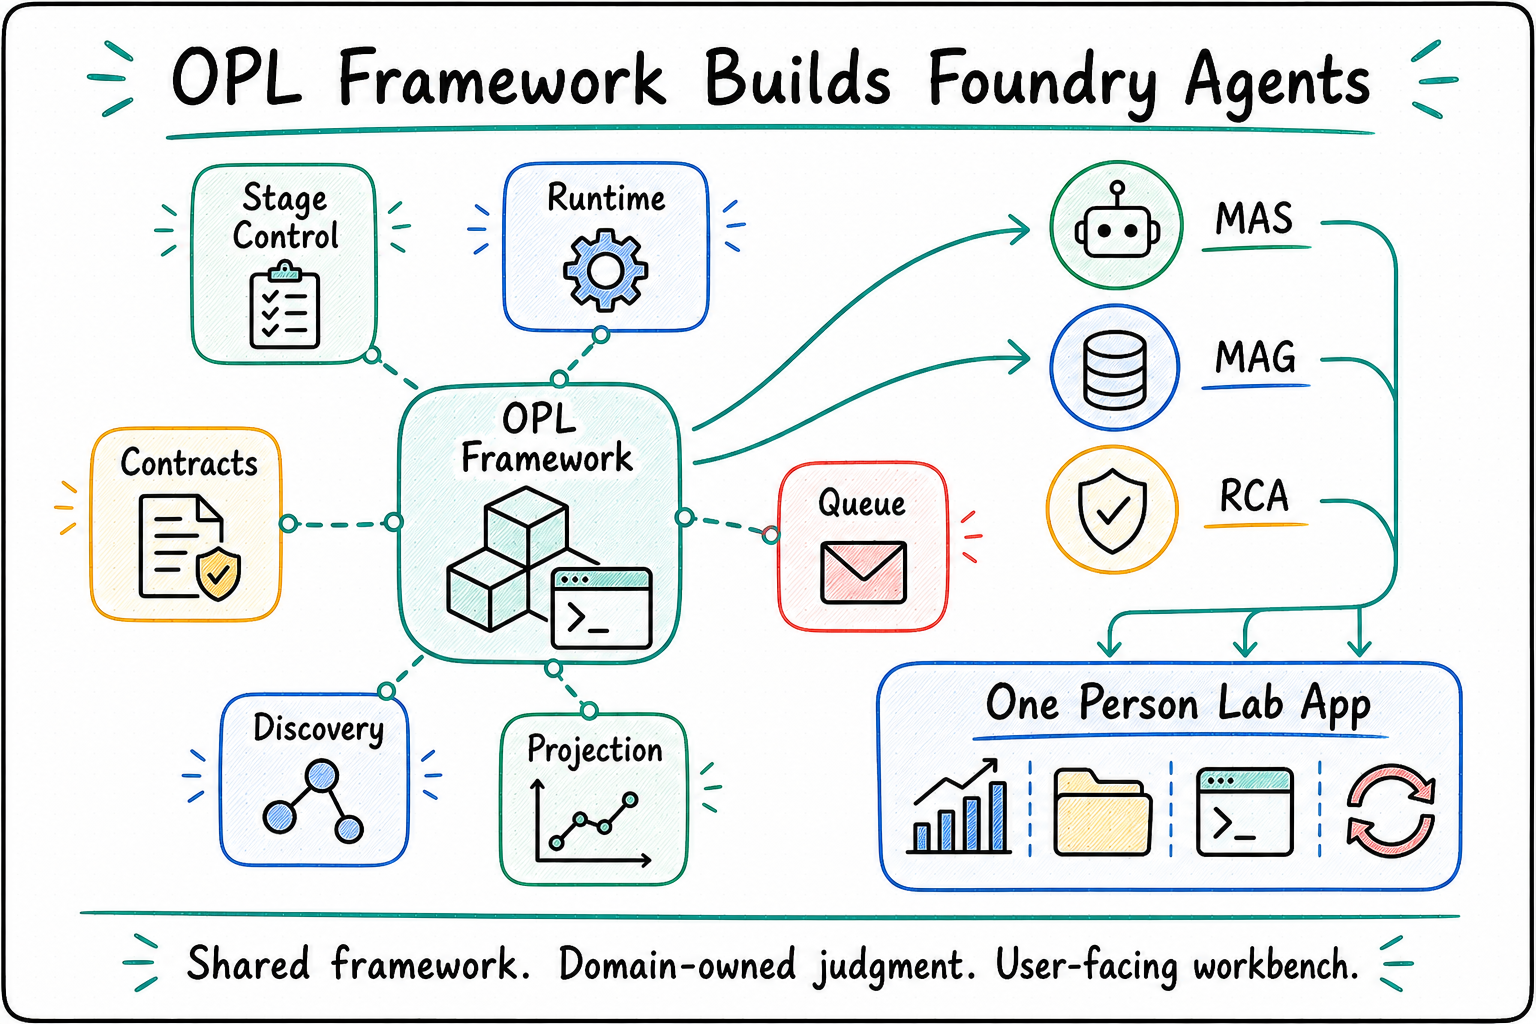
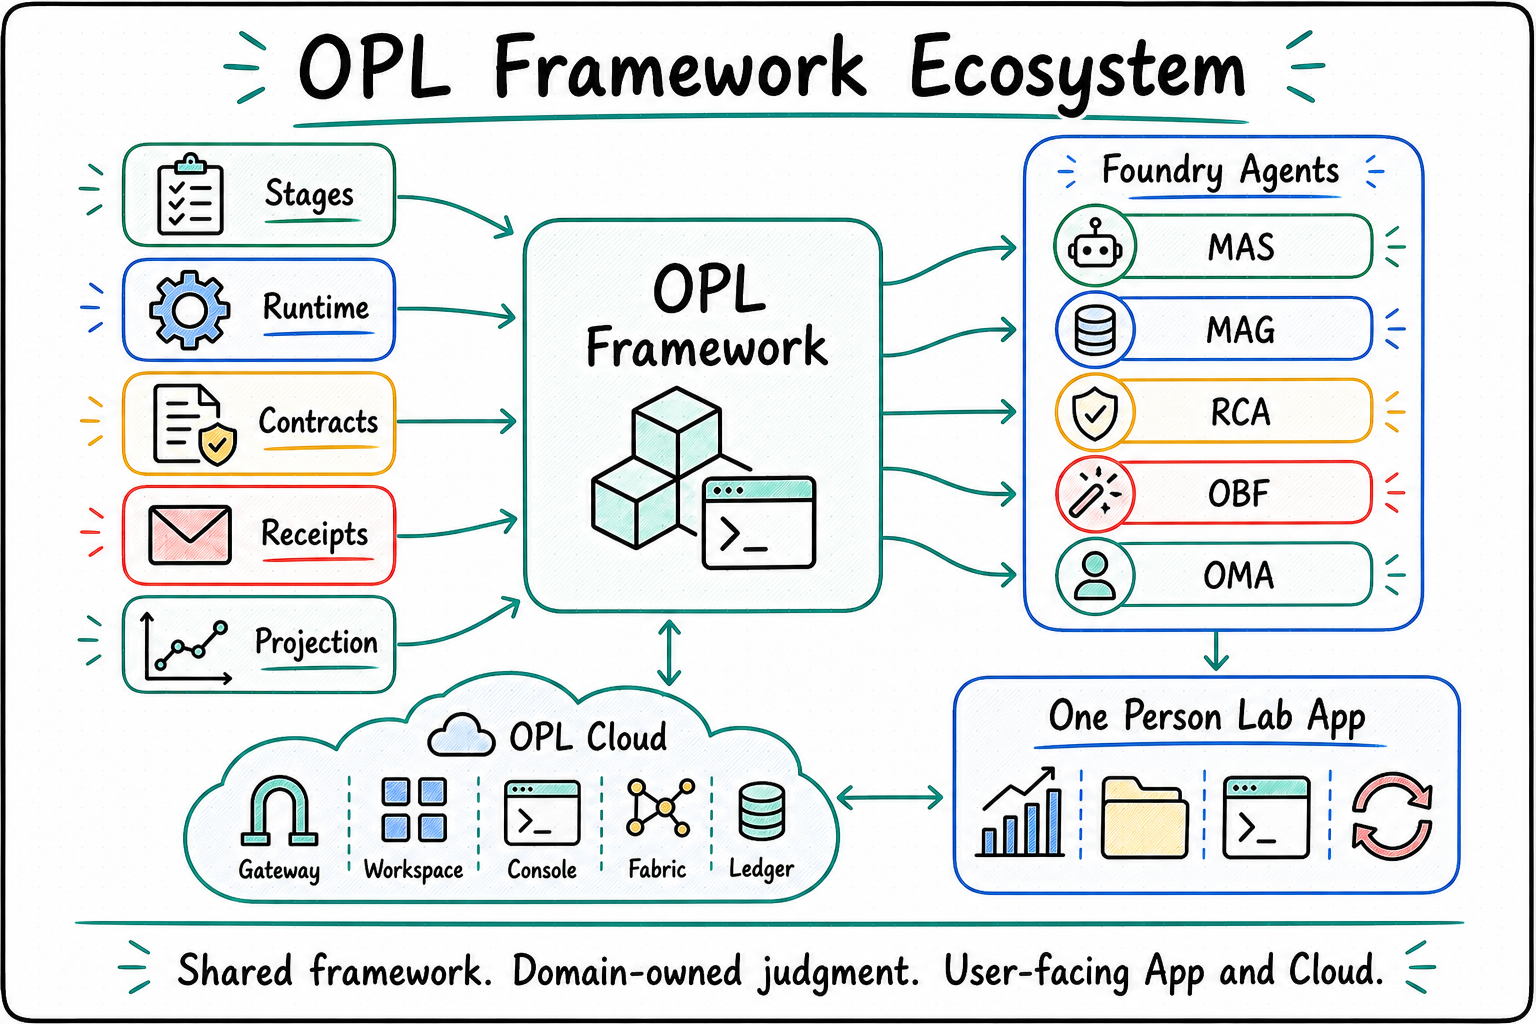
docs: refresh OPL branding visuals

Changed region(s): [[0.0312, 0.0312, 0.9688, 0.9688], [0.9062, 0.0312, 0.9375, 0.0625]]

diff --git a/README.md b/README.md
@@ -12,7 +12,7 @@
 <p align="center">Move papers, grants, presentations, patents, and other demanding projects beyond one-shot answers into sustained progress, review, revision, and delivery.</p>
 
 <p align="center">
-  <img src="assets/branding/opl-stage-led-delivery-overview-v2.png" alt="One Person Lab stage-led delivery model" width="100%" />
+  <img src="assets/branding/opl-stage-delivery-model.png" alt="One Person Lab stage-led delivery model" width="100%" />
 </p>
 
 ## Why One Person Lab
@@ -89,7 +89,7 @@ With this design, OPL keeps attention on real progress: whether the next version
 Workflow tools are strongest when the task is deterministic: call a few tools, fill a few fields, and produce a fixed output. High-value knowledge work behaves more like a professional team moving a project forward: someone prepares material, someone creates, someone reviews, someone revises, and someone closes out delivery. OPL organizes those roles and stages so AI keeps producing inspectable, editable, deliverable work.
 
 <p align="center">
-  <img src="assets/branding/opl-stage-led-delivery-overview.png" alt="One Person Lab compared with workflow-style agents" width="100%" />
+  <img src="assets/branding/opl-knowledge-delivery-advantage.png" alt="One Person Lab compared with workflow-style agents" width="100%" />
 </p>
 
 ## Product Layers